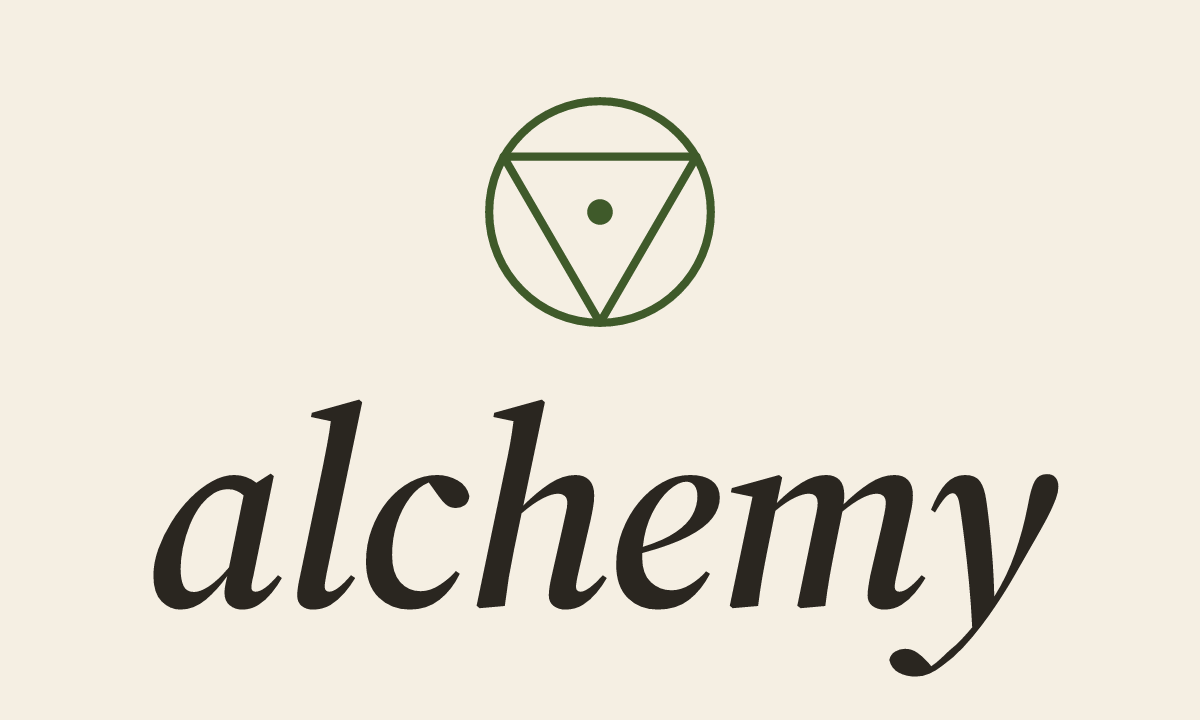
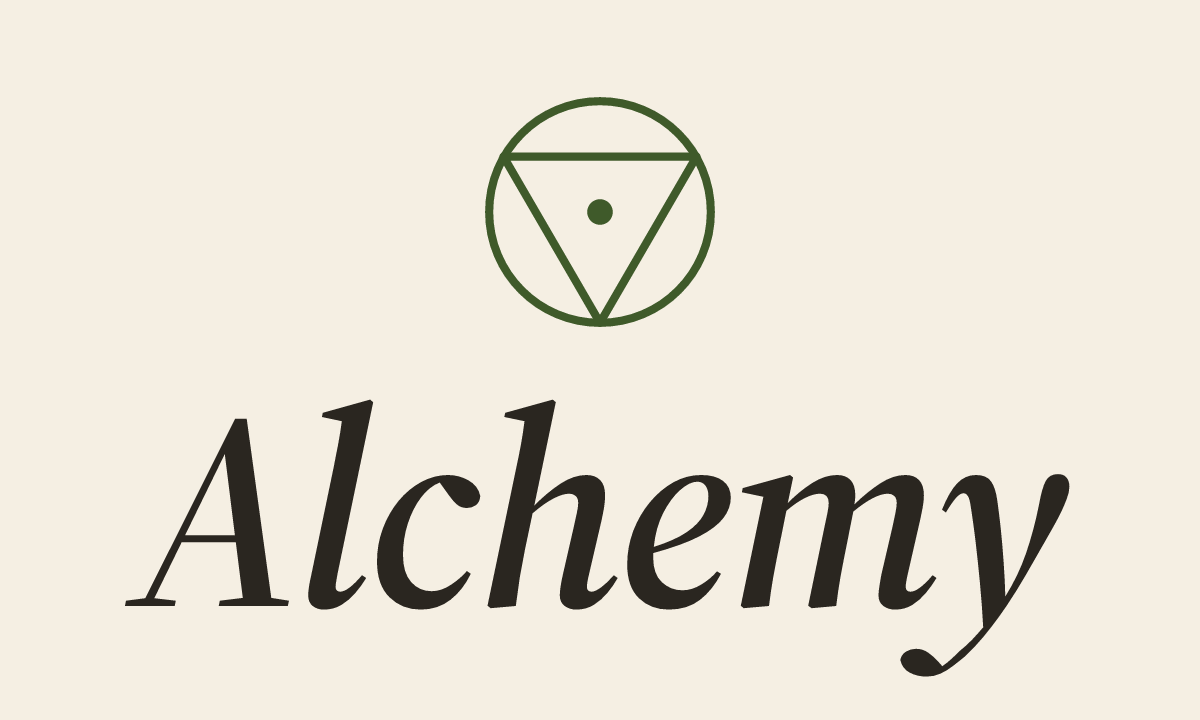
docs: capitalize Alchemy in README hero

Changed region(s): [[0.0925, 0.55, 0.8942, 0.9472]]

diff --git a/website/src/brand/ReadmeHero.tsx b/website/src/brand/ReadmeHero.tsx
@@ -69,7 +69,7 @@ export function ReadmeHero(): any {
               letterSpacing: -4,
               color: COLORS.fg,
             },
-            children: "alchemy",
+            children: "Alchemy",
           },
         },
       ],
